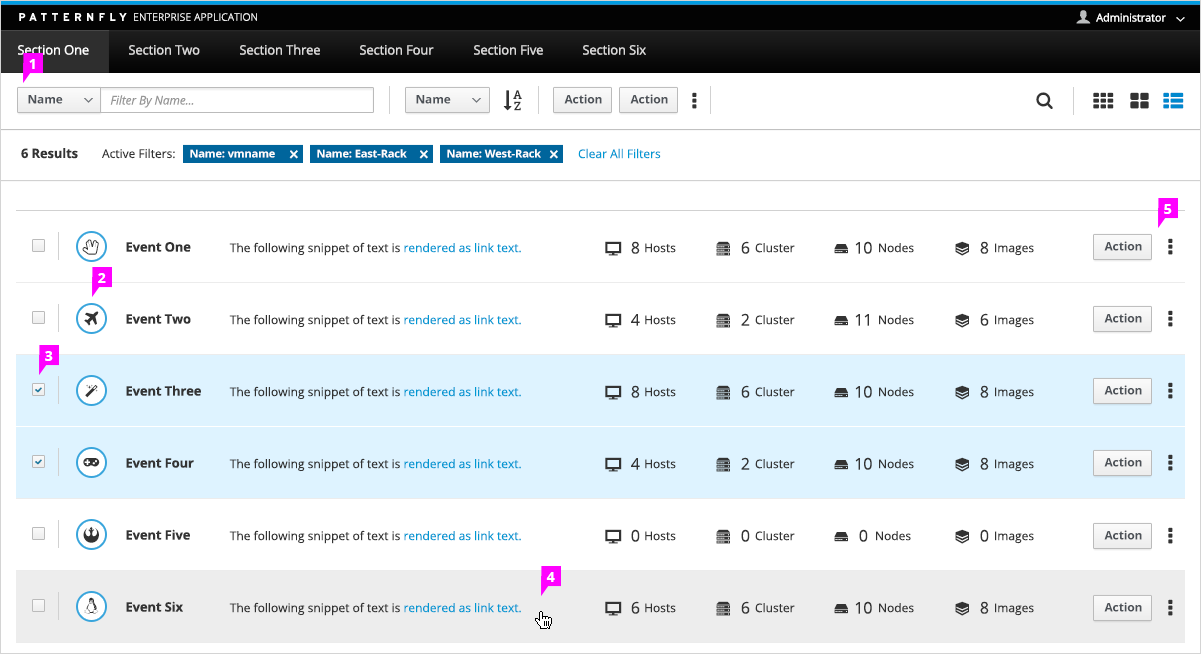
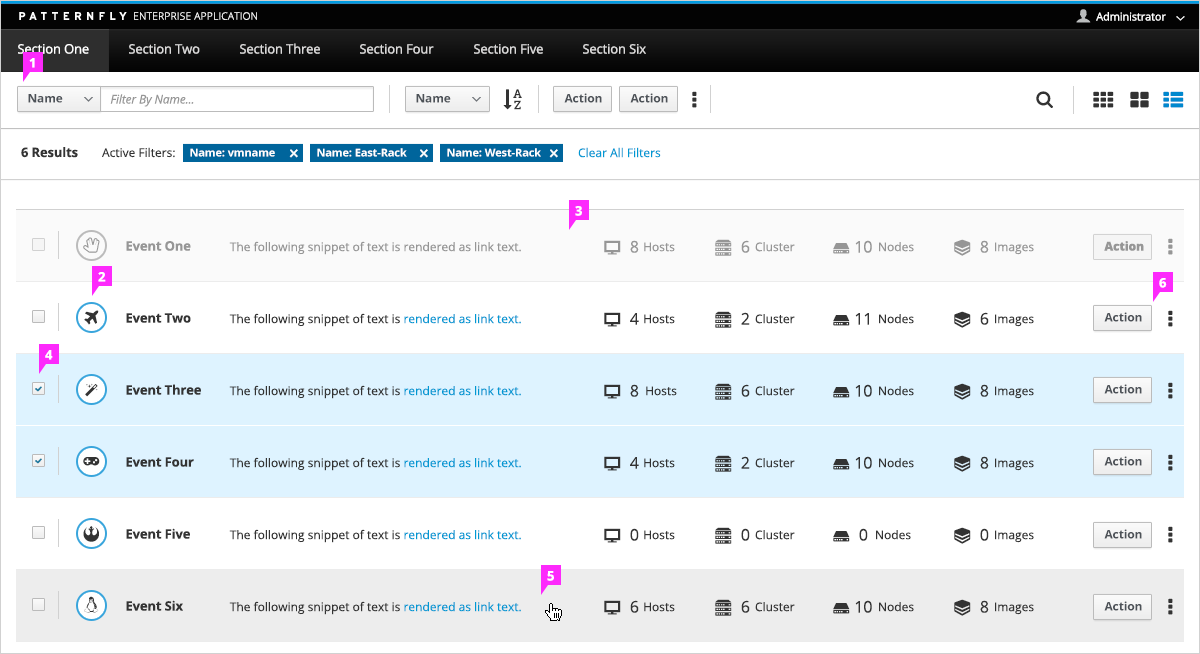
Add disabled State to List View pattern
I use a light gray here for disabled rows to distinguish from the new
selected row highlighting (as it was mentioned in Github that the two
colors we have implemented are too close to tell from each other). When
hovering on it, the cursor will change to a Cannot Click State.

diff --git a/pattern-library/content-views/list-view/design/design.md b/pattern-library/content-views/list-view/design/design.md
@@ -14,6 +14,8 @@
   - When the viewport size is decreased:
     - Content should wrap, displaying multiple rows of data
     - Content could be eliminated
+    
+1. **Disabled Row:** Rows that are currently not available will be disabled. The cursor should appear visually disabled when user hovers over the row.
 
 1. **Multi-Selection via Checkboxes** (optional): If multi-selection is supported, checkboxes appear on the left. Actions in the Data Toolbar apply to the selected items.
 
